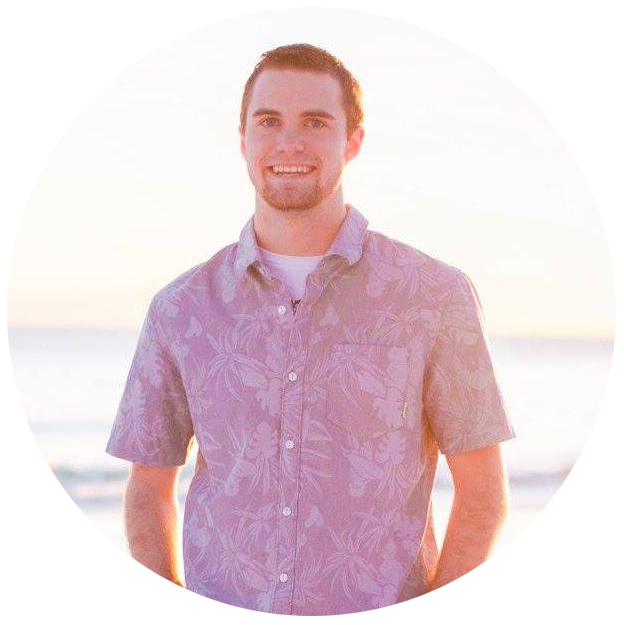
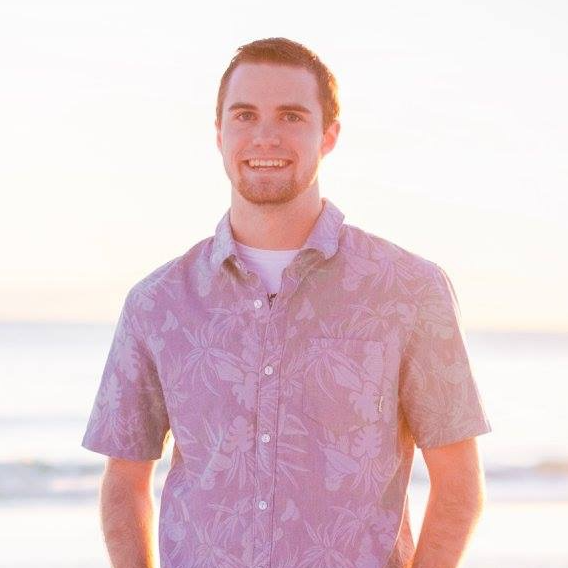
misc animation changes to about page profile image

diff --git a/style.css b/style.css
@@ -55,6 +55,15 @@ nav {
 nav a.brand {
     margin:0;
     padding:0;
+    
+}
+
+nav a.brand:hover {
+    margin:0;
+    padding:0;
+    -moz-transform: translateY(0px);
+    -webkit-transform: translateY(0px);
+    transform: translateY(0px);
 }
 
 nav:after {
@@ -223,6 +232,11 @@ p {
 
 #content img {
     width: 100%;
+}
+
+#content .round {
+    border-radius: 50%;
+ 
 }
 
 /*resume embedded pdf*/
@@ -407,7 +421,69 @@ p {
     height: 100%;
     top: 0;
 }
+    
+/* Animated about image
+--------------------------------------------- */
+.profile {
+    --border: 10px solid #fff;
+    border-radius: 50%;
 
+    -webkit-transition: all 0.5s ease;
+     -moz-transition: all 0.5s ease;
+       -o-transition: all 0.5s ease;
+      -ms-transition: all 0.5s ease;
+          transition: all 0.5s ease;
+    
+    -moz-animation-name: fuzzfadein;
+    -moz-animation-iteration-count: 1;
+    -moz-animation-timing-function: ease-out;
+    -moz-animation-duration: 3s;
+
+    -webkit-animation-name: fuzzfadein;
+    -webkit-animation-iteration-count: 1;
+    -webkit-animation-timing-function: ease-out;
+    -webkit-animation-duration: 3s;
+
+    animation-name: fuzzfadein;
+    animation-iteration-count: 1;
+    animation-timing-function: ease-out;
+    animation-duration: 3s;
+}
+
+.profile:hover {
+   -webkit-transform:rotate(-15deg);
+    -moz-transform:rotate(-15deg);
+    transform:rotate(-15deg);
+    --border-radius: 0%;
+}
+
+
+    
+
+@-moz-keyframes fuzzfadein {
+    0% {
+        -webkit-filter: blur(5px);
+    }
+    100% {
+        -webkit-filter: blur(0px);
+    }
+}
+@-webkit-keyframes fuzzfadein {
+    0% {
+        -webkit-filter: blur(5px);
+    }
+    100% {
+        -webkit-filter: blur(0px);
+    }
+}
+@keyframes fuzzfadein {
+    0% {
+        -webkit-filter: blur(5px);
+    }
+    100% {
+        -webkit-filter: blur(0px);
+    }
+}
 
 
 /* Download Button
@@ -505,7 +581,7 @@ p {
 #contact-form select:focus, 
 #contact-form textarea:focus {
     border: 1px solid #AFCDD8;
-    --background-color: #96D9D2;
+    background-color: #FCFFFF;
 }
 
 #contact-form input, #contact-form textarea {
@@ -539,7 +615,7 @@ p {
 }
  
 #contact-form #submit-button:hover {
-    background-color: #A6CFDD;
+    background-color: #30736C;
 }
  
 #contact-form #submit-button:active {

diff --git a/about.html b/about.html
@@ -32,11 +32,11 @@
 <div id="content">
     <div id="flexcontainer">
         <div id="column1">
-        <img src="images/profile.png"/>
+            <img class="profile" src="images/profile.png"/>
         </div>
         <div id="column2">
-        <h2>Who Am I?</h2>
-        <p>My name is Braden, and I'm a senior Computer Science major at Texas A&M University. I have a passon for all kinds of tech, and a particular focus in audio and visual that spans anywhere from designing websites and logos to running sound for a football stadium. I've always tended to be more technical than artsy, but the opportunities and classes I've come across in college have helped me push my creative side a bit more. I'm currently on track to graduate from A&M in May 2017, and I'm pursuing a job in sports media production. If you have any questions or interest in my work, don't hesitate to contact me through the form on my contact page!</p>
+            <h2>Who Am I?</h2>
+            <p>My name is Braden, and I'm a senior Computer Science major at Texas A&M University. I have a passon for all kinds of tech, and a particular focus in audio and visual that spans anywhere from designing websites and logos to running sound for a football stadium. I've always tended to be more technical than artsy, but the opportunities and classes I've come across in college have helped me push my creative side a bit more. I'm currently on track to graduate from A&M in May 2017, and I'm pursuing a job in sports media production. If you have any questions or interest in my work, don't hesitate to contact me through the form on my contact page!</p>
         </div>
     </div>
 </div>
